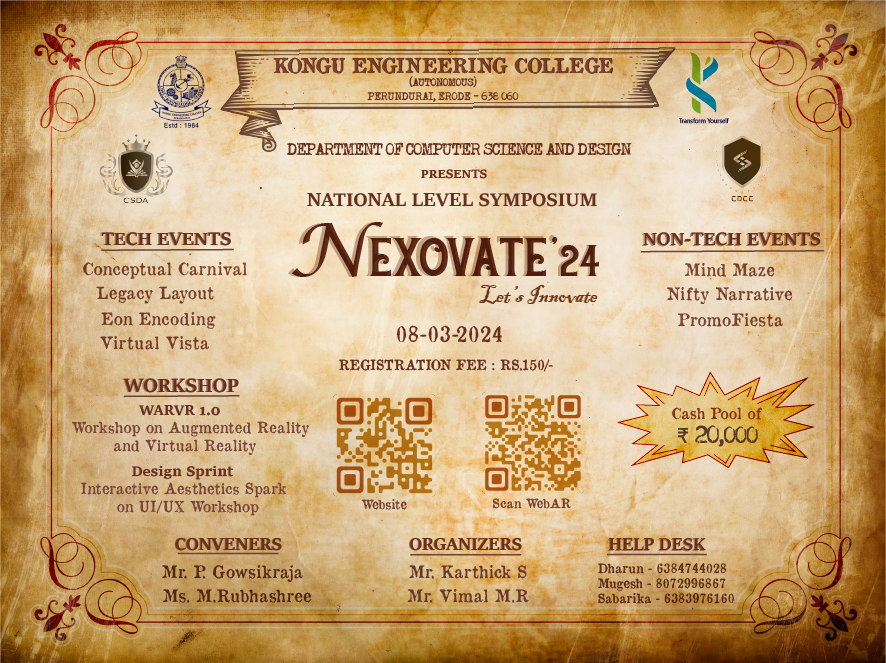
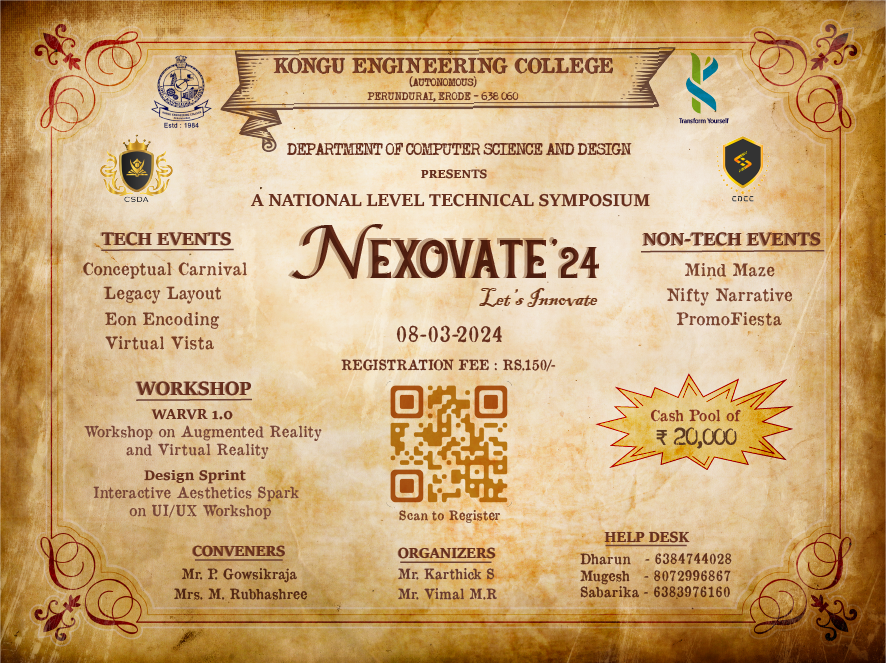
prob stat added, transition effect, poster change

diff --git a/index.html b/index.html
@@ -40,9 +40,9 @@
                 <img class="home-img" src="./Assets/img/Nexovate-24.png" alt="poster">
             </a> 
             <p>
-                <span style="font-size: 25px; padding-left: 4vw;">N</span>exovate 2024 will take place on <span style="font-weight: bold;">March 8 2024, Friday</span>. The department of Computer Science and Design 
+                <span style="font-size: 25px; padding-left: 4vw; font-weight: bold;">N</span><span style="font-weight: bold;">exovate'24</span> will take place on <span style="font-weight: bold;">March 8 2024, Friday</span>. The department of Computer Science and Design 
                 in Kongu Engineering College organizes this event will converge upon the students from various colleges enthusiasm and intention 
-                to thrive from various institutions.The event begins at <span style="font-weight: bold;">8.45 AM</span> in the <span style="font-weight: bold;">Ramanunja Seminar Hall, IT Park</span> and this symposium comprises
+                to thrive from various institutions. The event begins at <span style="font-weight: bold;">8.45 AM</span> in the <span style="font-weight: bold;">Ramanunjam Seminar Hall, IT Park</span> and this symposium comprises
                  to be an symposium of various genres, ensuring an enlightening experience.
                 <span class="resp-disp"> It includes four technical, three non-technical and 
                      two workshops. The Computer Science and Design Association and Computer Science and Design Coding Club have made necessary 
@@ -99,7 +99,7 @@
         <div class="cont1">
             <h1>Technical Events</h1>
             <div class="cont2 events" >
-                <a href="#" class="modal-trigger" data-image=".\Assets\img\rules\PaperPresentation.png">
+                <a href="#" class="modal-trigger1" data-image=".\Assets\img\rules\PaperPresentation.png">
                     <div class="cont3">
                         <img class="contest-img" src="./Assets/img/Conceptual-Carnival-sketch-square.png">
                         <div class="textblock">
@@ -115,7 +115,7 @@
                         </div>
                     </div>
                 </a>    
-                <a href="#" class="modal-trigger" data-image=".\Assets\img\rules\ARVR.png">
+                <a href="#" class="modal-trigger1" data-image=".\Assets\img\rules\ARVR.png">
                     <div class="cont3">
                         <img class="contest-img" src="./Assets/img/ARVR-expo.png">
                         <div class="textblock">
@@ -207,6 +207,16 @@
         </div>
     </div>
 
+    <div id="modal1" class="modal1">
+        <div class="modal-content1">
+          <img id="modal-image1" src="" alt="Modal Image"><br>
+          <a href="./Assets/pdf/Nexovate_schedule.pdf" target="_blank">
+              <button class="prob-btn1" id="prob-btn1">Problem Statement</button>
+          </a>
+          <button class="cancel-btn1" id="cancel-btn1">Back</button>
+        </div>
+    </div>
+
     <section>
         <div class="parent">
                 <div class="timely" id="shedule">
@@ -219,27 +229,6 @@
                     <li>Conceptual Carnival</li>
                     <li>Eon-Encoding</li>
                     <li>Nifty Narrative</li>
-                    </ul>
-
-                    <p>12:00 PM to 1:00 PM</p>
-                    <ul id="list_items">
-                    <li>Lunch</li>
-                    </ul>
-                    
-                    <p>1:00 PM to 2:30 PM</p>
-                    <ul id="list_items">
-                        <li>Legacy Layouts</li>
-                        <li>Mind Maze</li>
-                    </ul>
-
-                    <p>2:30 PM to 3:30 PM</p>
-                    <ul id="list_items">
-                        <li>PromoFiesta</li>
-                    </ul>
-                    
-                    <p>3:30 PM to 4:30 PM</p>
-                    <ul id="list_items">
-                        <li>Valedictory</li>
                     </ul>
                 </div> -->
                 <div class="gmap">

diff --git a/Assets/css/style.css b/Assets/css/style.css
@@ -168,6 +168,7 @@ body {
     text-decoration: none;
     font-weight: bold;
     font-size: large;
+    transition: color 0.3s ease
 }
 
 .cont1 a:hover{
@@ -215,7 +216,7 @@ body {
 }
 
 .about-img2{
-    max-width: 14vw;
+    max-width: 10vw;
 }
 
 #contest{
@@ -266,6 +267,7 @@ body {
     border-bottom-right-radius: 225px 15px;
     border-bottom-left-radius:15px 255px;
     box-shadow: 0px 0px 20px rgb(67,49,34);
+    transition: box-shadow 0.3s ease;
 }
 
 .register:hover{
@@ -288,7 +290,7 @@ body {
   }
   
 
-.modal {
+.modal,.modal1 {
     display: none;
     position: fixed;
     z-index: 1;
@@ -300,7 +302,7 @@ body {
     background-color: rgba(0, 0, 0, 0.9);
   }
   
-  .modal-content {
+  .modal-content, .modal-content1 {
     margin: auto;
     margin-top: 3%;
     padding: 20px;
@@ -309,11 +311,11 @@ body {
     text-align: center;
   }
 
-  .modal-content img{
+  .modal-content img, .modal-content1 img{
     max-width: 50%;
   }
   
-  .cancel-btn {
+  .cancel-btn, .cancel-btn1 {
     margin-top: 18px;
     background-color: #ff7f50;
     color: #fff;
@@ -322,12 +324,26 @@ body {
     border-radius: 5px;
     cursor: pointer;
     transition: background-color 0.3s ease;
-  }
-  
-  .cancel-btn:hover {
-    background-color: #ff6347;
-  }
+}
 
+.cancel-btn:hover, .cancel-btn1:hover {
+    background-color: #ff6347;
+}
+
+.prob-btn1{
+    margin-top: 18px;
+    background-color: #3be14c;
+    color: #fff;
+    padding: 10px 20px;
+    border: none;
+    border-radius: 5px;
+    cursor: pointer;
+    transition: background-color 0.3s ease;
+}
+
+.prob-btn1:hover {
+    background-color: #34be42;
+}
 
 .timely {
     border-top-left-radius: 255px 15px;
@@ -355,11 +371,12 @@ body {
     border-bottom-right-radius: 225px 15px;
     border-bottom-left-radius:15px 255px;
     box-shadow: 2px 2px 10px;
+    transition: box-shadow 0.3s ease;
 }
 
 .download_schedule:hover{
     cursor: pointer;
-    box-shadow: 2px 2px 30px;
+    box-shadow: 2px 2px 20px;
 }
   
 .parent {

diff --git a/Assets/script/script.js b/Assets/script/script.js
@@ -24,3 +24,30 @@ document.addEventListener('DOMContentLoaded', function() {
       }
     });
   });
+
+document.addEventListener('DOMContentLoaded', function() {
+    const modalTrigger = document.querySelectorAll('.modal-trigger1');
+    const modal = document.getElementById('modal1');
+    const modalImage = document.getElementById('modal-image1');
+    const cancelBtn = document.getElementById('cancel-btn1');
+  
+    modalTrigger.forEach(function(trigger) {
+      trigger.addEventListener('click', function(e) {
+        e.preventDefault();
+        const imageUrl = this.getAttribute('data-image');
+        modalImage.setAttribute('src', imageUrl);
+        modal.style.display = 'block';
+      });
+    });
+  
+    cancelBtn.addEventListener('click', function() {
+      modal.style.display = 'none';
+    });
+  
+    // Close modal when clicking outside of the modal content
+    window.addEventListener('click', function(e) {
+      if (e.target === modal) {
+        modal.style.display = 'none';
+      }
+    });
+  });
